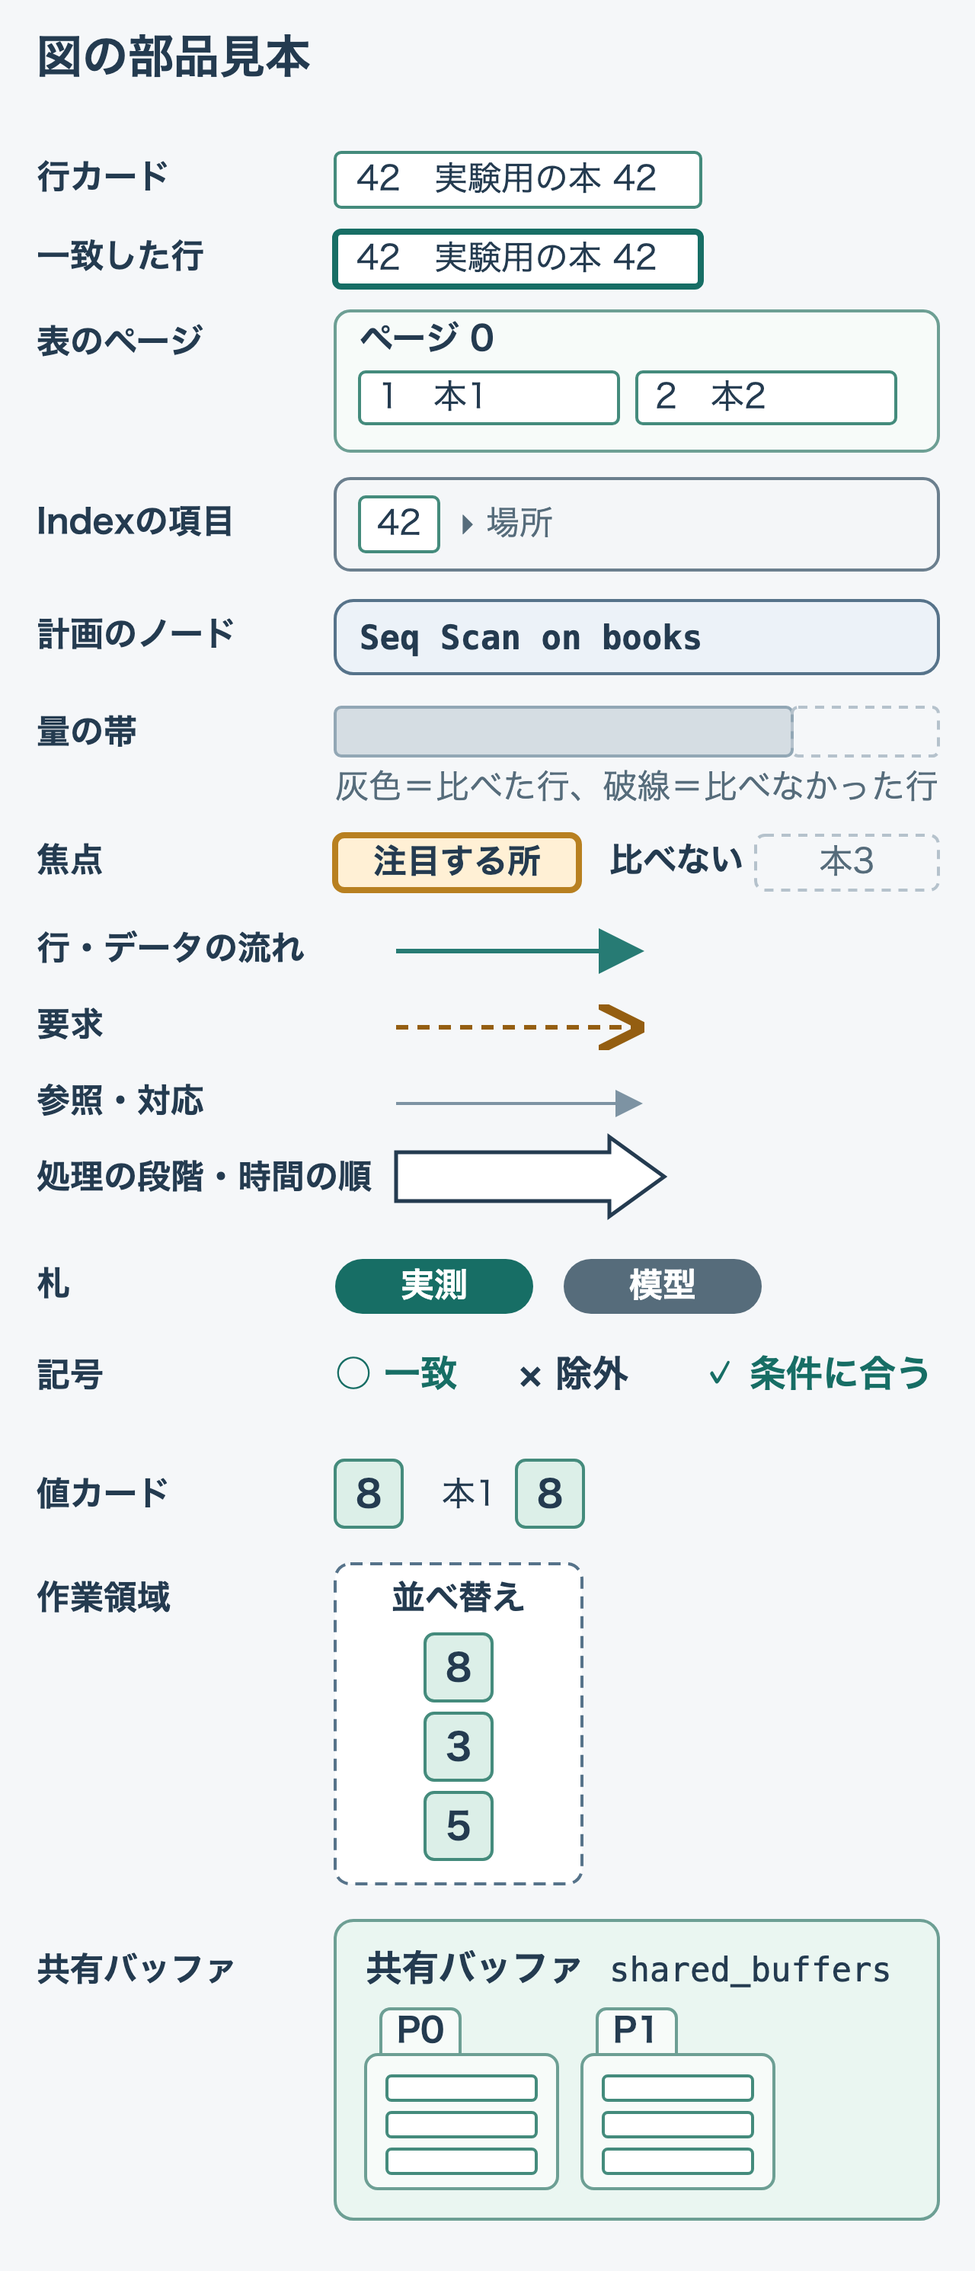
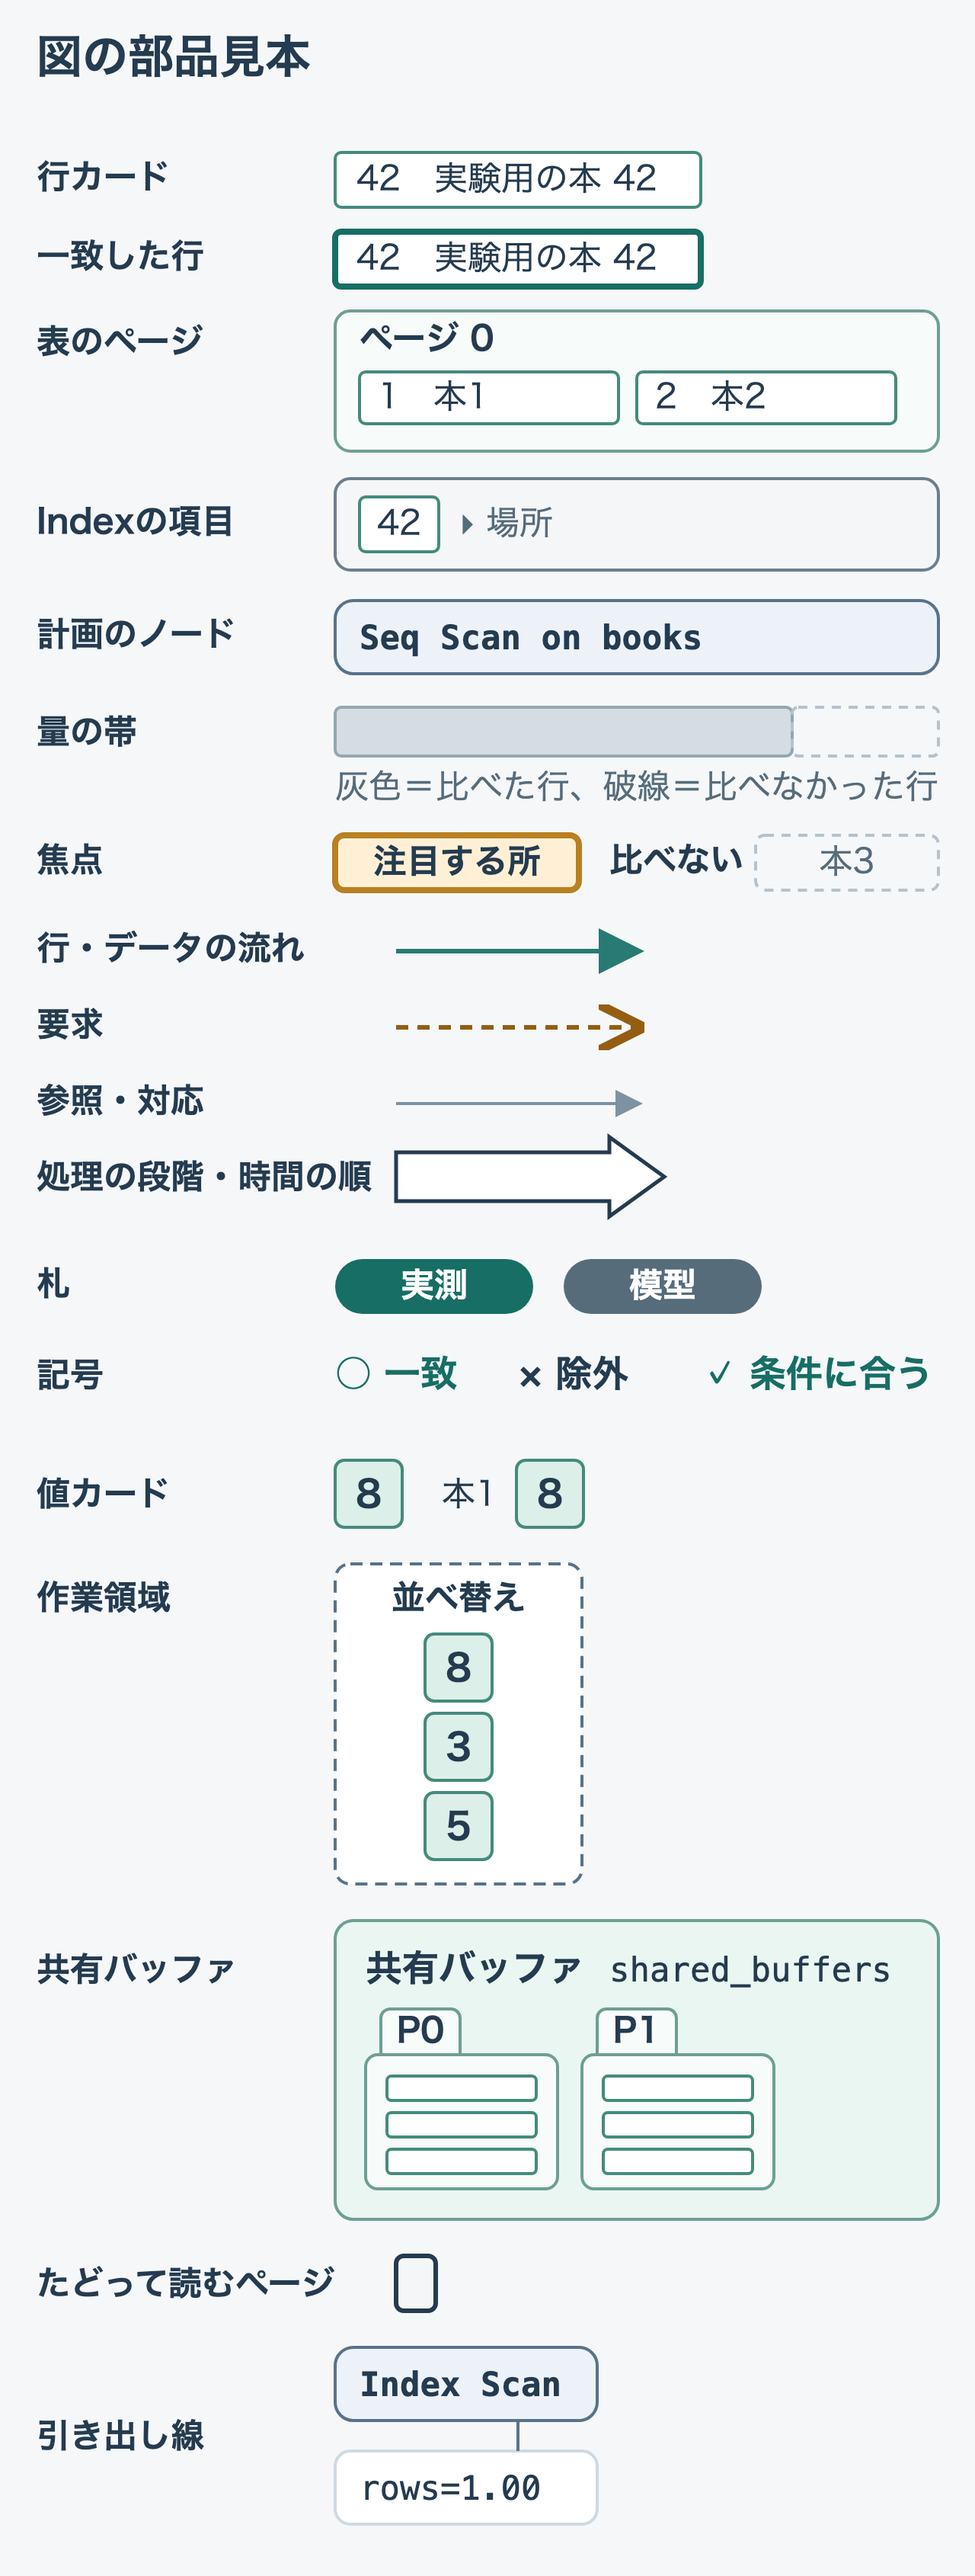
docs(query-journey): 引き出し線とたどるページの枠を部品にし、設計書に新しい描き方を書く

diff --git a/books/postgresql-query-journey/FIGURE-PLAN.md b/books/postgresql-query-journey/FIGURE-PLAN.md
@@ -55,8 +55,9 @@
 | 計画のノード | 角丸の箱。ノード名は出力と同じ字面で書く | EXPLAINの1行 |
 | 量の帯 | 横長の帯。長さを行数に比例させ、数値と出典を書く | 扱った行数 |
 | 共有バッファ | RAMの枠の中の大きな枠。中にページ枠を並べる | 接続どうしで共有するページの置き場所 |
-| 作業用メモリ | 破線の枠（上限の目安）。処理ごとに一つ | 並べ替えやハッシュの作業場所 |
+| 作業用メモリ | 破線の枠（上限の目安）。処理ごとに一つ。中の薄い緑の塗り（値カードと同じ `.val`）は、使った量 | 並べ替えやハッシュの作業場所 |
 | ストレージ | 下段の枠。中に表のファイル・WALのファイル・一時ファイル | 電源が切れても残る場所 |
+| 引き出し線 | 矢じりのない細い灰紺の線（`.leader`） | この値の枠が、どのノードの出力か |
 
 - 配色は既存の値（紺`#243b50`、青緑`#277b74`、薄い緑`#dcefe8`、橙`#b88020`など）を引き継ぐ。色だけで意味を持たせず、形・記号・ラベルを併用する。
 - ノード名と出力の項目名は等幅の書体（`ui-monospace, Menlo, monospace`）で書き、出力と見比べられるようにする。
@@ -84,6 +85,7 @@
 | 太枠＋札（「入れ替え」など） | 位置や値が変わった |
 | 灰色の破線＋× | 読まない・除外した・外れた |
 | ✓と× | 条件に合った・合わない |
+| 紺の太枠（`.route`） | たどって読むページ（B-treeの各段で読む1枚など） |
 
 1コマで橙の太枠を付けるのは一か所（比べる2枚を示すときは2枚）に限る。
 
@@ -250,7 +252,7 @@
 | 位置 | 図 | 型 | 判定 | 直し方 |
 | --- | --- | --- | --- | --- |
 | 15行目 | `06-catalog-question` | 問い | 手直し | 目録を本棚と同じ厚さで描き、「本100万冊・目録100万件」とする。副題と注意書きを消す |
-| 24行目 | `06-btree-path` | 仕組み | 手直し | 案内と三つの箱を1本の木にする。「① 8は7以上 → 右へ」「② 箱の中で8を見つける」。開かない箱は破線で「開かない」。用語は本文の「境目」にそろえる |
+| 24行目 | `06-btree-path` | 仕組み | 手直し | 案内と三つの箱を1本の木にする。「① 8は7以上 → 右へ」「② 箱の中で8を見つける」。開かない箱は破線＋×で「開かない」（2026-09-25：06-tree-levels で破線を「増える段」に使ったので、×で区別する）。用語は本文の「境目」にそろえる |
 | 124行目 | `06-range-scan` | 仕組み | 描き直し | 前の図と同じ木で4〜8に✓、9は「範囲外 → ここで止まる」、下段に表のページ。「探索1回・読む葉2枚・取り出す行5行」 |
 | 39行目付近 | 新規 `06-tree-levels` | 仕組み | 新規・高（2026-09-25 描いた） | 分岐100の模型で1 → 100 → 1万個の箱を3段に描き、各段1枚だけを読む＝3枚（全部なら10,101枚）。「1億冊なら4枚」 |
 
